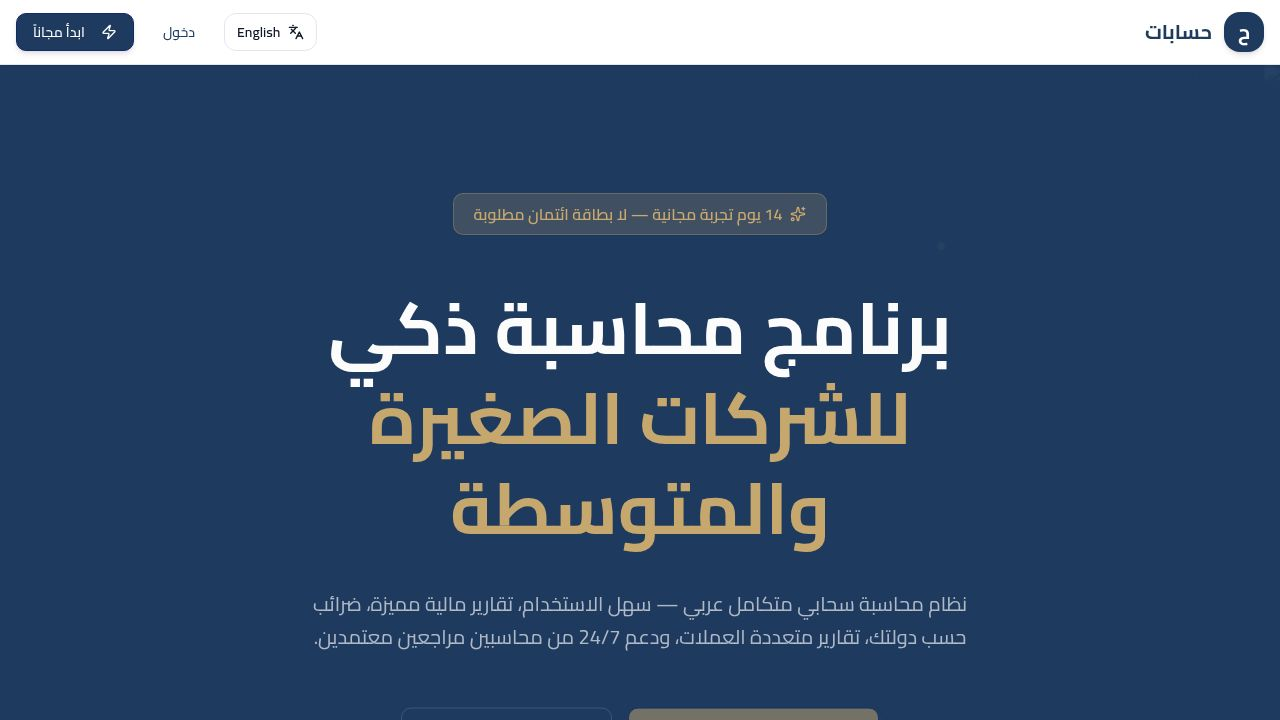
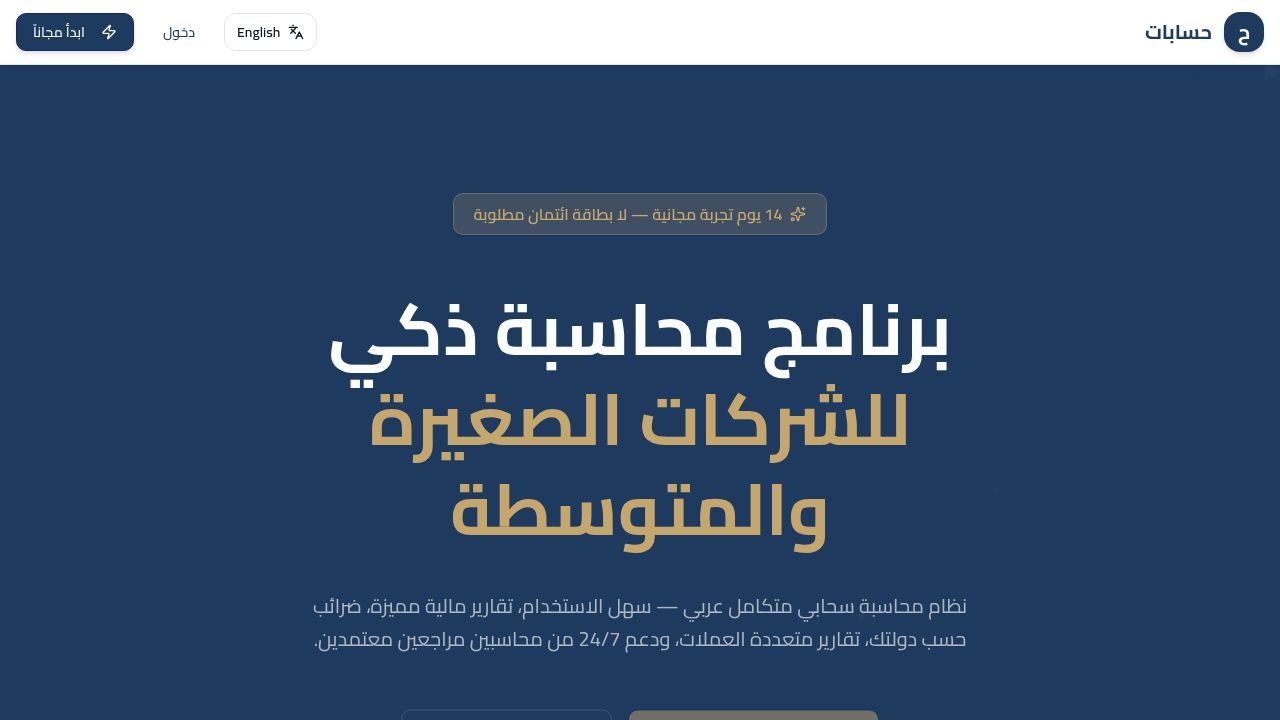
deploy: chore: Phase 5 (Subscriptions & Super Admin) dev preview + bug fix

diff --git a/artifacts/api-server/src/routes/super-admin.ts b/artifacts/api-server/src/routes/super-admin.ts
@@ -15,6 +15,13 @@ import {
   updateArticleSchema,
   auditLogTable,
   manualPaymentRequestsTable,
+  journalEntriesTable,
+  invoicesTable,
+  customersTable,
+  suppliersTable,
+  bankAccountsTable,
+  fixedAssetsTable,
+  employeesTable,
 } from "@workspace/db";
 import { requireSuperAdmin, requireSuperAdminRole } from "../middleware/super-admin";
 import { hashPassword } from "../lib/auth";
@@ -1328,7 +1335,8 @@ router.post("/super-admin/payment-requests/:id/approve", async (req, res) => {
       res.status(result.error === "Request not found" ? 404 : 400).json({ error: result.error });
       return;
     }
-    res.json({ ok: true, endsAt: result.endsAt.toISOString() });
+    const approved = result as { ok: true; endsAt: Date };
+    res.json({ ok: true, endsAt: approved.endsAt.toISOString() });
   } catch (err) {
     req.log.error({ err }, "Failed to approve payment request");
     res.status(500).json({ error: "Server error" });
@@ -1352,7 +1360,8 @@ router.post("/super-admin/companies/:companyId/payment-requests/:requestId/appro
       res.status(result.error === "Request not found" ? 404 : 400).json({ error: result.error });
       return;
     }
-    res.json({ ok: true, endsAt: result.endsAt.toISOString() });
+    const approved = result as { ok: true; endsAt: Date };
+    res.json({ ok: true, endsAt: approved.endsAt.toISOString() });
   } catch (err) {
     req.log.error({ err }, "Failed to approve company payment request");
     res.status(500).json({ error: "Server error" });
@@ -1402,6 +1411,102 @@ router.post("/super-admin/companies/:companyId/payment-requests/:requestId/rejec
     res.json({ ok: true });
   } catch (err) {
     req.log.error({ err }, "Failed to reject company payment request");
+    res.status(500).json({ error: "Server error" });
+  }
+});
+
+// GET /super-admin/companies/:id/overview
+router.get("/super-admin/companies/:id/overview", async (req, res) => {
+  const { id } = req.params;
+  try {
+    const [company] = await db
+      .select({
+        id: companiesTable.id,
+        name: companiesTable.name,
+        country: companiesTable.country,
+        subscriptionStatus: companiesTable.subscriptionStatus,
+        trialEndsAt: companiesTable.trialEndsAt,
+        planId: companiesTable.planId,
+        createdAt: companiesTable.createdAt,
+      })
+      .from(companiesTable)
+      .where(eq(companiesTable.id, id))
+      .limit(1);
+    if (!company) {
+      res.status(404).json({ error: "Company not found" });
+      return;
+    }
+    const [usersCount] = await db
+      .select({ count: count() })
+      .from(usersTable)
+      .where(eq(usersTable.companyId, id));
+    const [jeCount] = await db
+      .select({ count: count() })
+      .from(journalEntriesTable)
+      .where(eq(journalEntriesTable.companyId, id));
+    const [invCount] = await db
+      .select({ count: count() })
+      .from(invoicesTable)
+      .where(eq(invoicesTable.companyId, id));
+    const [custCount] = await db
+      .select({ count: count() })
+      .from(customersTable)
+      .where(eq(customersTable.companyId, id));
+    const [suppCount] = await db
+      .select({ count: count() })
+      .from(suppliersTable)
+      .where(eq(suppliersTable.companyId, id));
+    const [bankCount] = await db
+      .select({ count: count() })
+      .from(bankAccountsTable)
+      .where(eq(bankAccountsTable.companyId, id));
+    const [assetCount] = await db
+      .select({ count: count() })
+      .from(fixedAssetsTable)
+      .where(eq(fixedAssetsTable.companyId, id));
+    const [empCount] = await db
+      .select({ count: count() })
+      .from(employeesTable)
+      .where(eq(employeesTable.companyId, id));
+    res.json({
+      company,
+      summary: {
+        usersCount: Number(usersCount?.count ?? 0),
+        journalEntries: Number(jeCount?.count ?? 0),
+        invoices: Number(invCount?.count ?? 0),
+        customers: Number(custCount?.count ?? 0),
+        suppliers: Number(suppCount?.count ?? 0),
+        bankAccounts: Number(bankCount?.count ?? 0),
+        fixedAssets: Number(assetCount?.count ?? 0),
+        employees: Number(empCount?.count ?? 0),
+      },
+    });
+  } catch (err) {
+    req.log.error({ err }, "Failed to fetch company overview");
+    res.status(500).json({ error: "Server error" });
+  }
+});
+
+// GET /super-admin/companies/:id/activity
+router.get("/super-admin/companies/:id/activity", async (req, res) => {
+  const { id } = req.params;
+  const limit = Math.min(Number(req.query["limit"] ?? 50), 200);
+  try {
+    const rows = await db
+      .select({
+        id: auditLogTable.id,
+        action: auditLogTable.action,
+        entity: auditLogTable.entity,
+        entityId: auditLogTable.entityId,
+        createdAt: auditLogTable.createdAt,
+      })
+      .from(auditLogTable)
+      .where(eq(auditLogTable.companyId, id))
+      .orderBy(desc(auditLogTable.createdAt))
+      .limit(limit);
+    res.json(rows);
+  } catch (err) {
+    req.log.error({ err }, "Failed to fetch company activity");
     res.status(500).json({ error: "Server error" });
   }
 });

diff --git a/artifacts/api-server/src/routes/company.ts b/artifacts/api-server/src/routes/company.ts
@@ -3,7 +3,7 @@ import path from "path";
 import crypto from "crypto";
 import multer from "multer";
 import { z } from "zod/v4";
-import { eq, and, asc, ne } from "drizzle-orm";
+import { eq, and, asc, ne, or, desc, count } from "drizzle-orm";
 import {
   db,
   companiesTable,
@@ -36,20 +36,18 @@ import {
   costCentersTable,
   fiscalYearsTable,
   usersTable,
-  type Company,
+  subscriptionPlansTable,
+  subscriptionsTable,
   manualPaymentRequestsTable,
+  countryPaymentMethodsTable,
+  type Company,
 } from "@workspace/db";
 import { isCountry, isCurrency } from "@workspace/locale";
 import { UpdateCompanyBody } from "@workspace/api-zod";
-import { z } from "zod/v4";
 import { requireAuth } from "../middleware/require-auth";
 import { requireCapability } from "../middleware/require-capability";
 import { isWriteBlocked, WRITE_BLOCK_MSG } from "../lib/fiscal-year";
 import { uploadsDir } from "./uploads";
-import { subscriptionPlansTable,
-subscriptionsTable,
-manualPaymentRequestsTable,
-countryPaymentMethodsTable } from "@workspace/db";
 import { safeAudit } from "../lib/audit";
 
 const router = Router();

diff --git a/artifacts/api-server/src/routes/auth.ts b/artifacts/api-server/src/routes/auth.ts
@@ -6,6 +6,7 @@ import {
   companiesTable,
   passwordResetTokensTable,
   auditLogTable,
+  subscriptionPlansTable,
   type User,
   type Company,
 } from "@workspace/db";